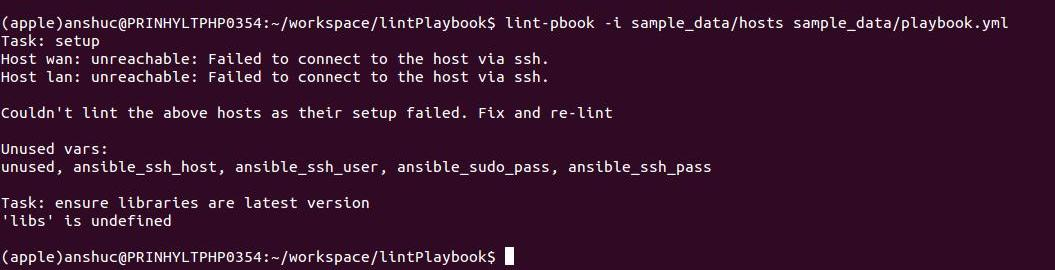
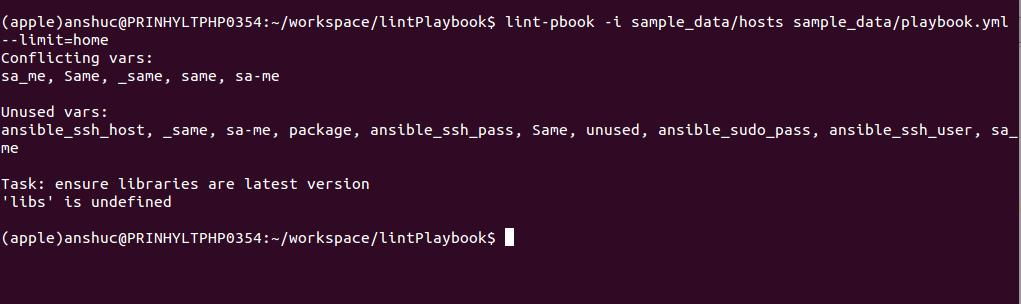
Add conflicting vars rule

diff --git a/linter/rules/conflictingVars.py b/linter/rules/conflictingVars.py
@@ -1,0 +1,108 @@
+"""Rule to lint playbook for variables that are same if their cases and special characters in
+them are ignored.
+"""
+
+import re
+
+from ansible.executor.task_executor import TaskExecutor  # pylint: disable=E0611,F0401
+# from ansible.plugins.strategy import StrategyBase  # pylint: disable=E0611,F0401
+from collections import defaultdict
+
+
+def queue_conflicting_vars(*arg, **kw):  # pylint: disable=W0613
+    """If conflicting vars enqueue them.
+
+    Advice to find vars that are same if their case and special characters in them are ignored.
+    """
+    def get_nested_keys(inp):
+        """recursively get all keys for the dictionary"""
+        for key, val in inp.iteritems():
+            if isinstance(val, dict):
+                for _key in get_nested_keys(val):
+                    # TODO: Fully qualify the key?
+                    yield _key
+            yield key
+
+    def normalize(var):
+        """Normalize variable by changing it to lower case and removing its special characters"""
+        return re.sub(r"[_-]", "", var).lower()
+
+    _self = arg[0]
+    if _self._task.action == "setup":
+        return
+    conflicting = defaultdict(set)
+    host = _self._host
+    var_collections = host.vars, host.get_group_vars()
+    for _vars in var_collections:
+        for var in get_nested_keys(_vars):
+            conflicting[normalize(var)].add(var)
+    conflicting = set([", ".join(_vars) for _vars in conflicting.itervalues() if len(_vars) > 1])
+    if len(conflicting):
+        _self._rslt_q.put({"conflicting_vars": conflicting}, interceptor=True)
+
+
+# def hosts_conflicting_vars(errors):
+#     """If conflicting vars enqueue them.
+#
+#     Advice to find vars that are same if their case and special characters in them are ignored.
+#     """
+#     def meth(*arg, **kw):  # pylint: disable=W0613
+#         def get_nested_keys(inp):
+#             """recursively get all keys for the dictionary"""
+#             for k, v in inp.iteritems():
+#                 if isinstance(v, dict):
+#                     for _k in get_nested_keys(v):
+#                         # TODO: Fully qualify the key?
+#                         yield _k
+#                 yield k
+#
+#         def normalize(var):
+#             """Normalize variable by changing it to lower case and removing its special
+#             characters
+#             """
+#             return re.sub(r"[_-]", "", var).lower()
+#
+#         _task = arg[4]
+#         if _task.action == "setup":
+#             return
+#         _self, host = arg[0], arg[3]
+#         try:
+#             if host.name in _self.evaluated:
+#                 return
+#         except AttributeError:
+#             pass
+#         conflicting = defaultdict(set)
+#         var_collections = host.vars, host.get_group_vars()
+#         for vars in var_collections:
+#             for var in get_nested_keys(vars):
+#                 conflicting[normalize(var)].add(var)
+#
+#         for _vars in conflicting.itervalues():
+#             if len(_vars) > 1:
+#                 errors["conflicting_vars"].add(", ".join(_vars))
+#         setattr(_self, "evaluated", set(host.name))
+#     return meth
+
+
+class ConflictingVar(object):
+    """Find host and group vars that aren't being used by the tasks."""
+    def __init__(self, errors):
+        """Initialise data store"""
+        self.errors = errors
+
+    aspects = {
+        TaskExecutor: {
+            r"__init__": dict(
+                after_finally=queue_conflicting_vars
+            )},
+    }
+
+    # @property
+    # def aspects(self):
+    #     return {
+    #         StrategyBase: {
+    #             r"\b_queue_task\b": dict(
+    #                 before=hosts_conflicting_vars(self.errors),
+    #             )
+    #         }
+    #     }

diff --git a/linter/rules/undefinedVar.py b/linter/rules/undefinedVar.py
@@ -37,7 +37,7 @@ def queue_exc(*arg, **kw):  # pylint: disable=W0613
             _rslt_q = getattr(_locals['self'], '_rslt_q')
     if not _rslt_q:
         raise ValueError("No Queue found.")
-    _rslt_q.put(arg[3].message, interceptor=True)
+    _rslt_q.put({"undefined_var": arg[3].message}, interceptor=True)
 
 
 def extract_worker_exc(errors):
@@ -70,8 +70,11 @@ def extract_worker_exc(errors):
                     _exc = _rslt_q.get(block=False, interceptor=True)
                     if "unused_vars" in _exc:
                         errors["unused_vars"] = errors["unused_vars"].union(_exc["unused_vars"])
-                        continue
-                    errors[_task.name].add(_exc)
+                    elif "conflicting_vars" in _exc:
+                        errors["conflicting_vars"] = \
+                            errors["conflicting_vars"].union(_exc["conflicting_vars"])
+                    elif "undefined_var" in _exc:
+                        errors[_task.name].add(_exc["undefined_var"])
                 except Empty:
                     break
     return method

diff --git a/linter/runner.py b/linter/runner.py
@@ -18,7 +18,7 @@ class Runner(object):
     def __init__(self, ansible_pbook_args, rules):
         """Initialise runner with playbook args, rules to be run and the error data store"""
         self.ansible_pbook_args = ansible_pbook_args
-        self.rules = rules
+        self.rules = isLTS(rules) and rules or [rules]
         # TODO: Make it ordered dict.
         self.errors = defaultdict(set)
 
@@ -51,8 +51,12 @@ class Runner(object):
             print "Valid Playbook"
             return
         for task, errors in self.errors.items():
+            # TODO: Hosts or groups as relevant in the error messages.
             if task == "unused_vars":
                 print 'Unused vars:{0}{1}{0}'.format('\n', ', '.join(errors))
+                continue
+            elif task == "conflicting_vars":
+                print 'Conflicting vars:{0}{1}{0}'.format('\n', '\n'.join(errors))
                 continue
             print 'Task: {1}{0}{2}{0}'.format('\n', task, '\n'.join(errors))
             if task == "setup":

diff --git a/CHANGELOG.md b/CHANGELOG.md
@@ -6,6 +6,8 @@ All notable changes to this project will be documented in this file.
 ### [Unreleased]
 
 #### Added
+- Rule to lint for [conflicting variables]
+(https://github.com/host-anshu/ansible-lint-rules/blob/master/rules/specs/conflicting_vars.feature).
 - Rule to lint for [unused variables]
 (https://github.com/host-anshu/ansible-lint-rules/blob/master/rules/specs/unused_vars.feature).
 - Suppressing stderr output as well.

diff --git a/README.md b/README.md
@@ -43,3 +43,4 @@ Rules that have been implemented(alpha stage) are:
 
 1. [Undefined variable](https://github.com/host-anshu/ansible-lint-rules/blob/master/rules/specs/undefined_vars.feature)
 2. [Unused variable](https://github.com/host-anshu/ansible-lint-rules/blob/master/rules/specs/unused_vars.feature)
+3. [Conflicting variable](https://github.com/host-anshu/ansible-lint-rules/blob/master/rules/specs/conflicting_vars.feature)
